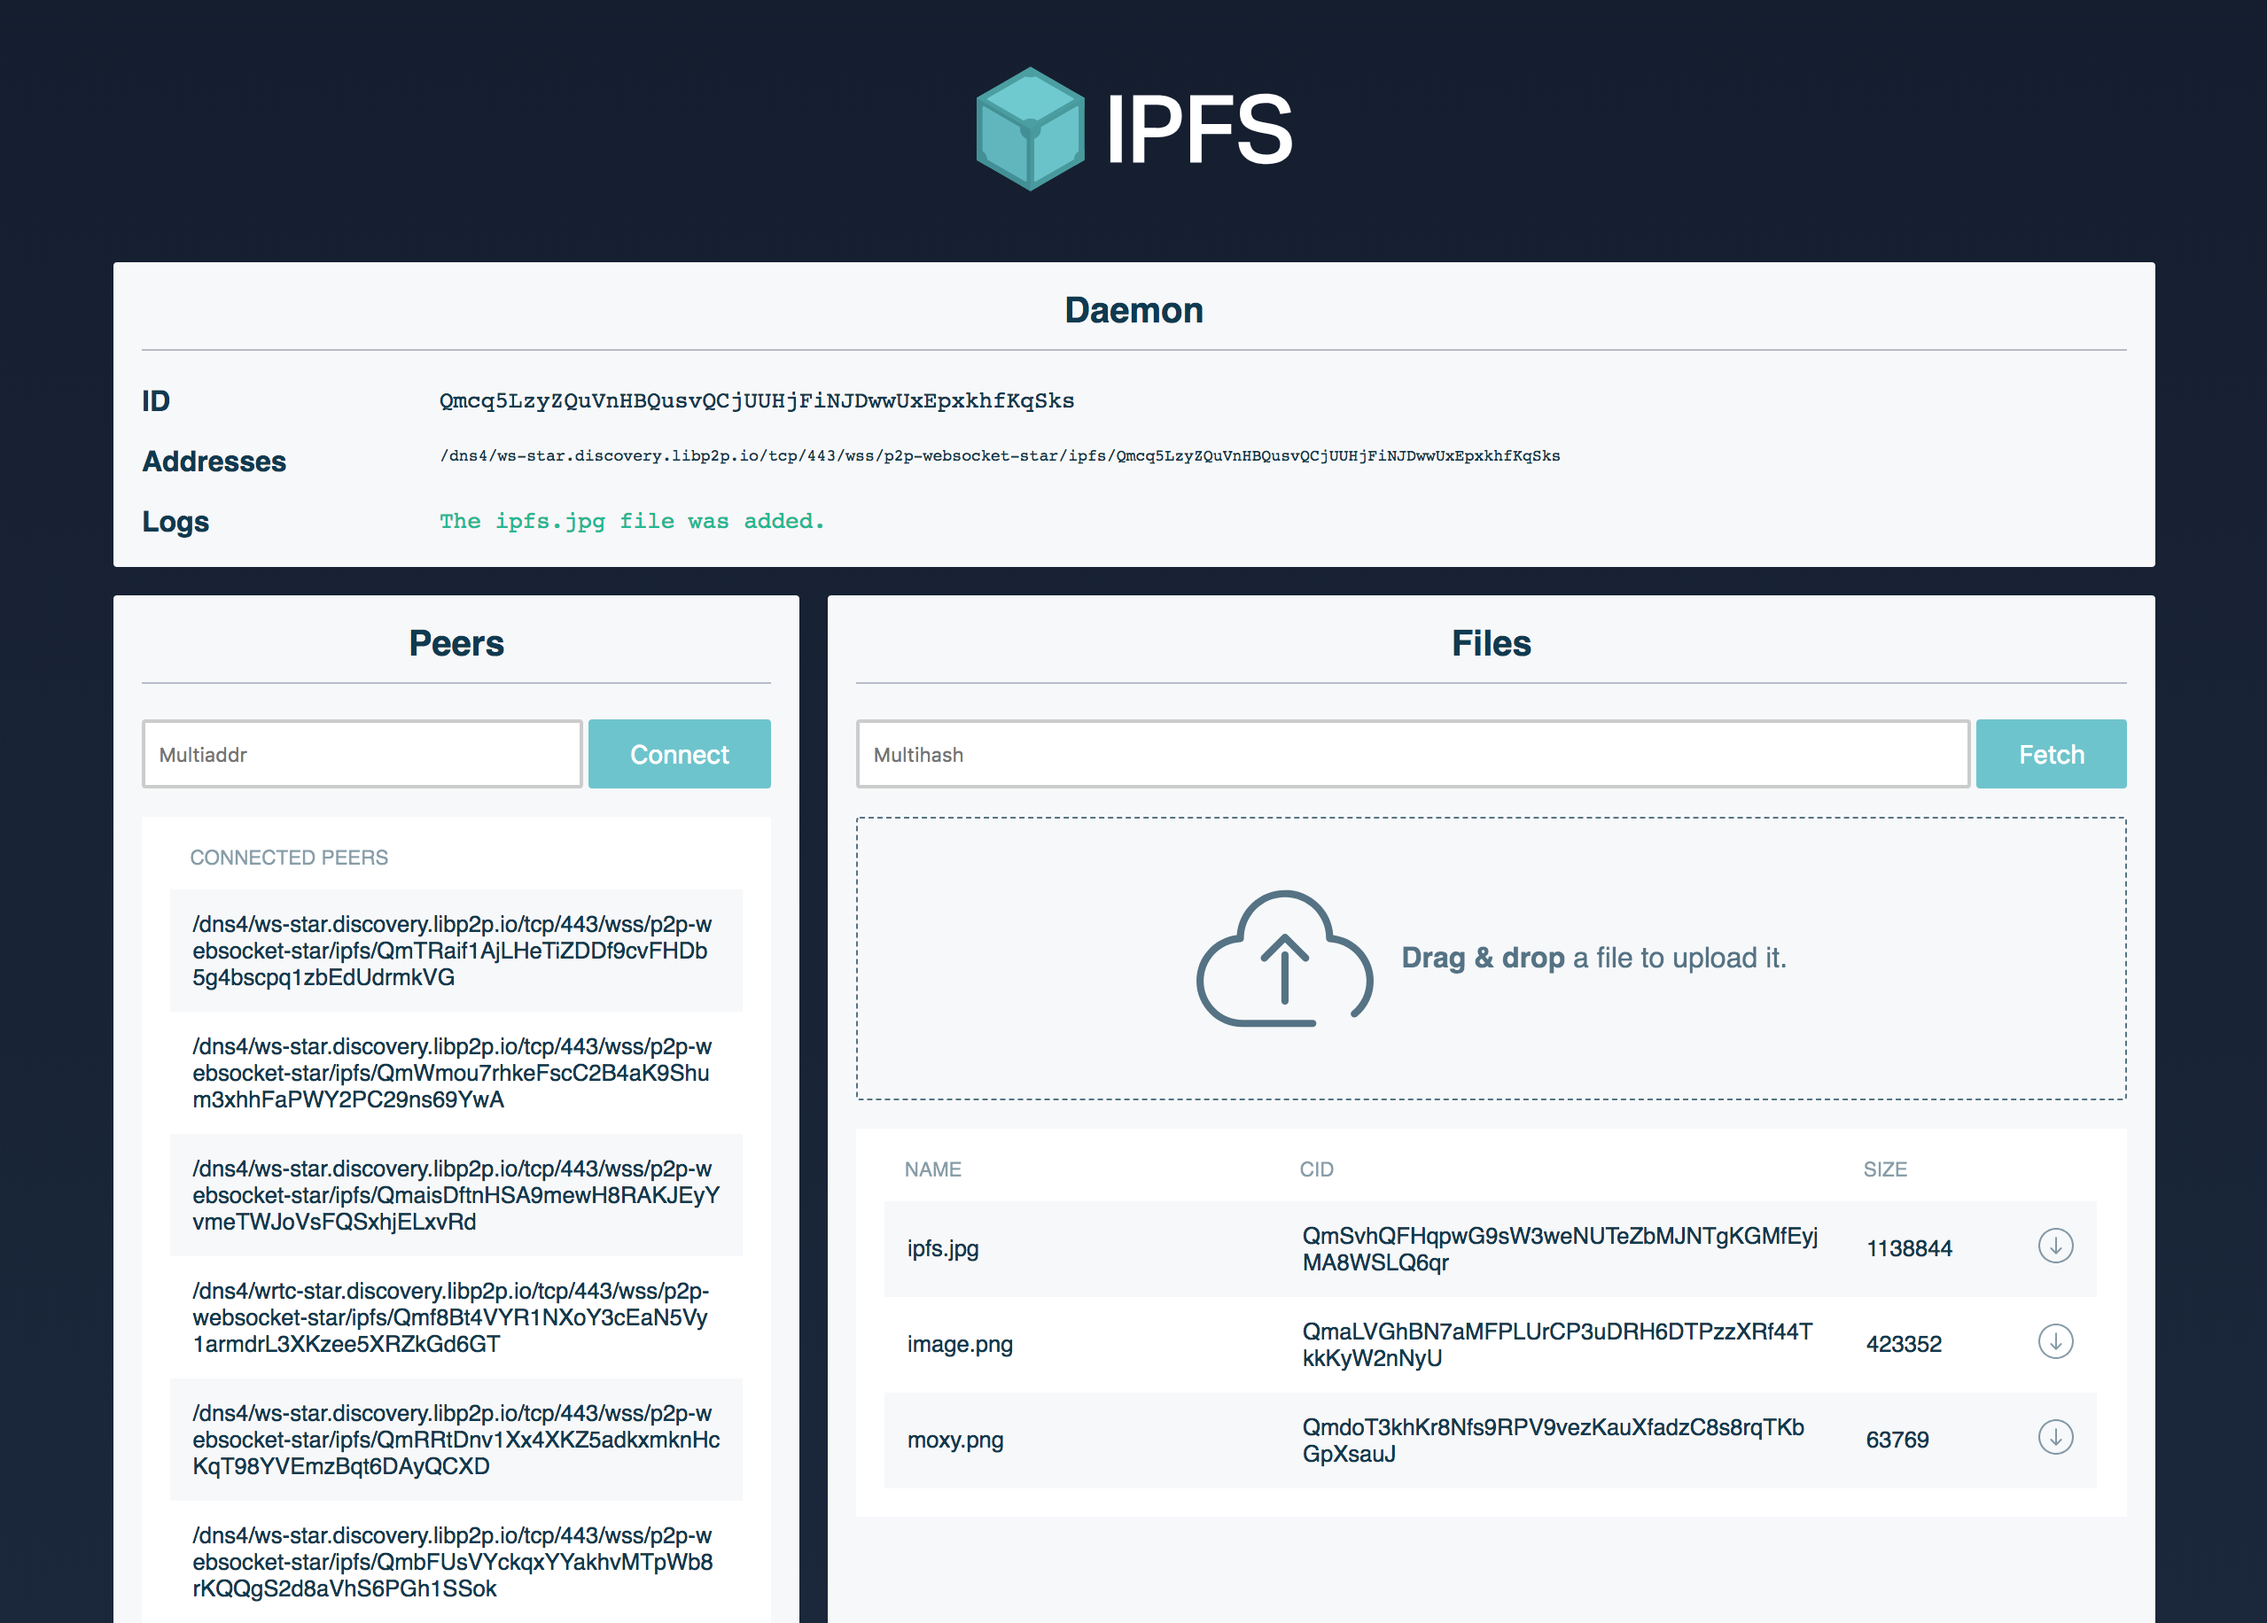
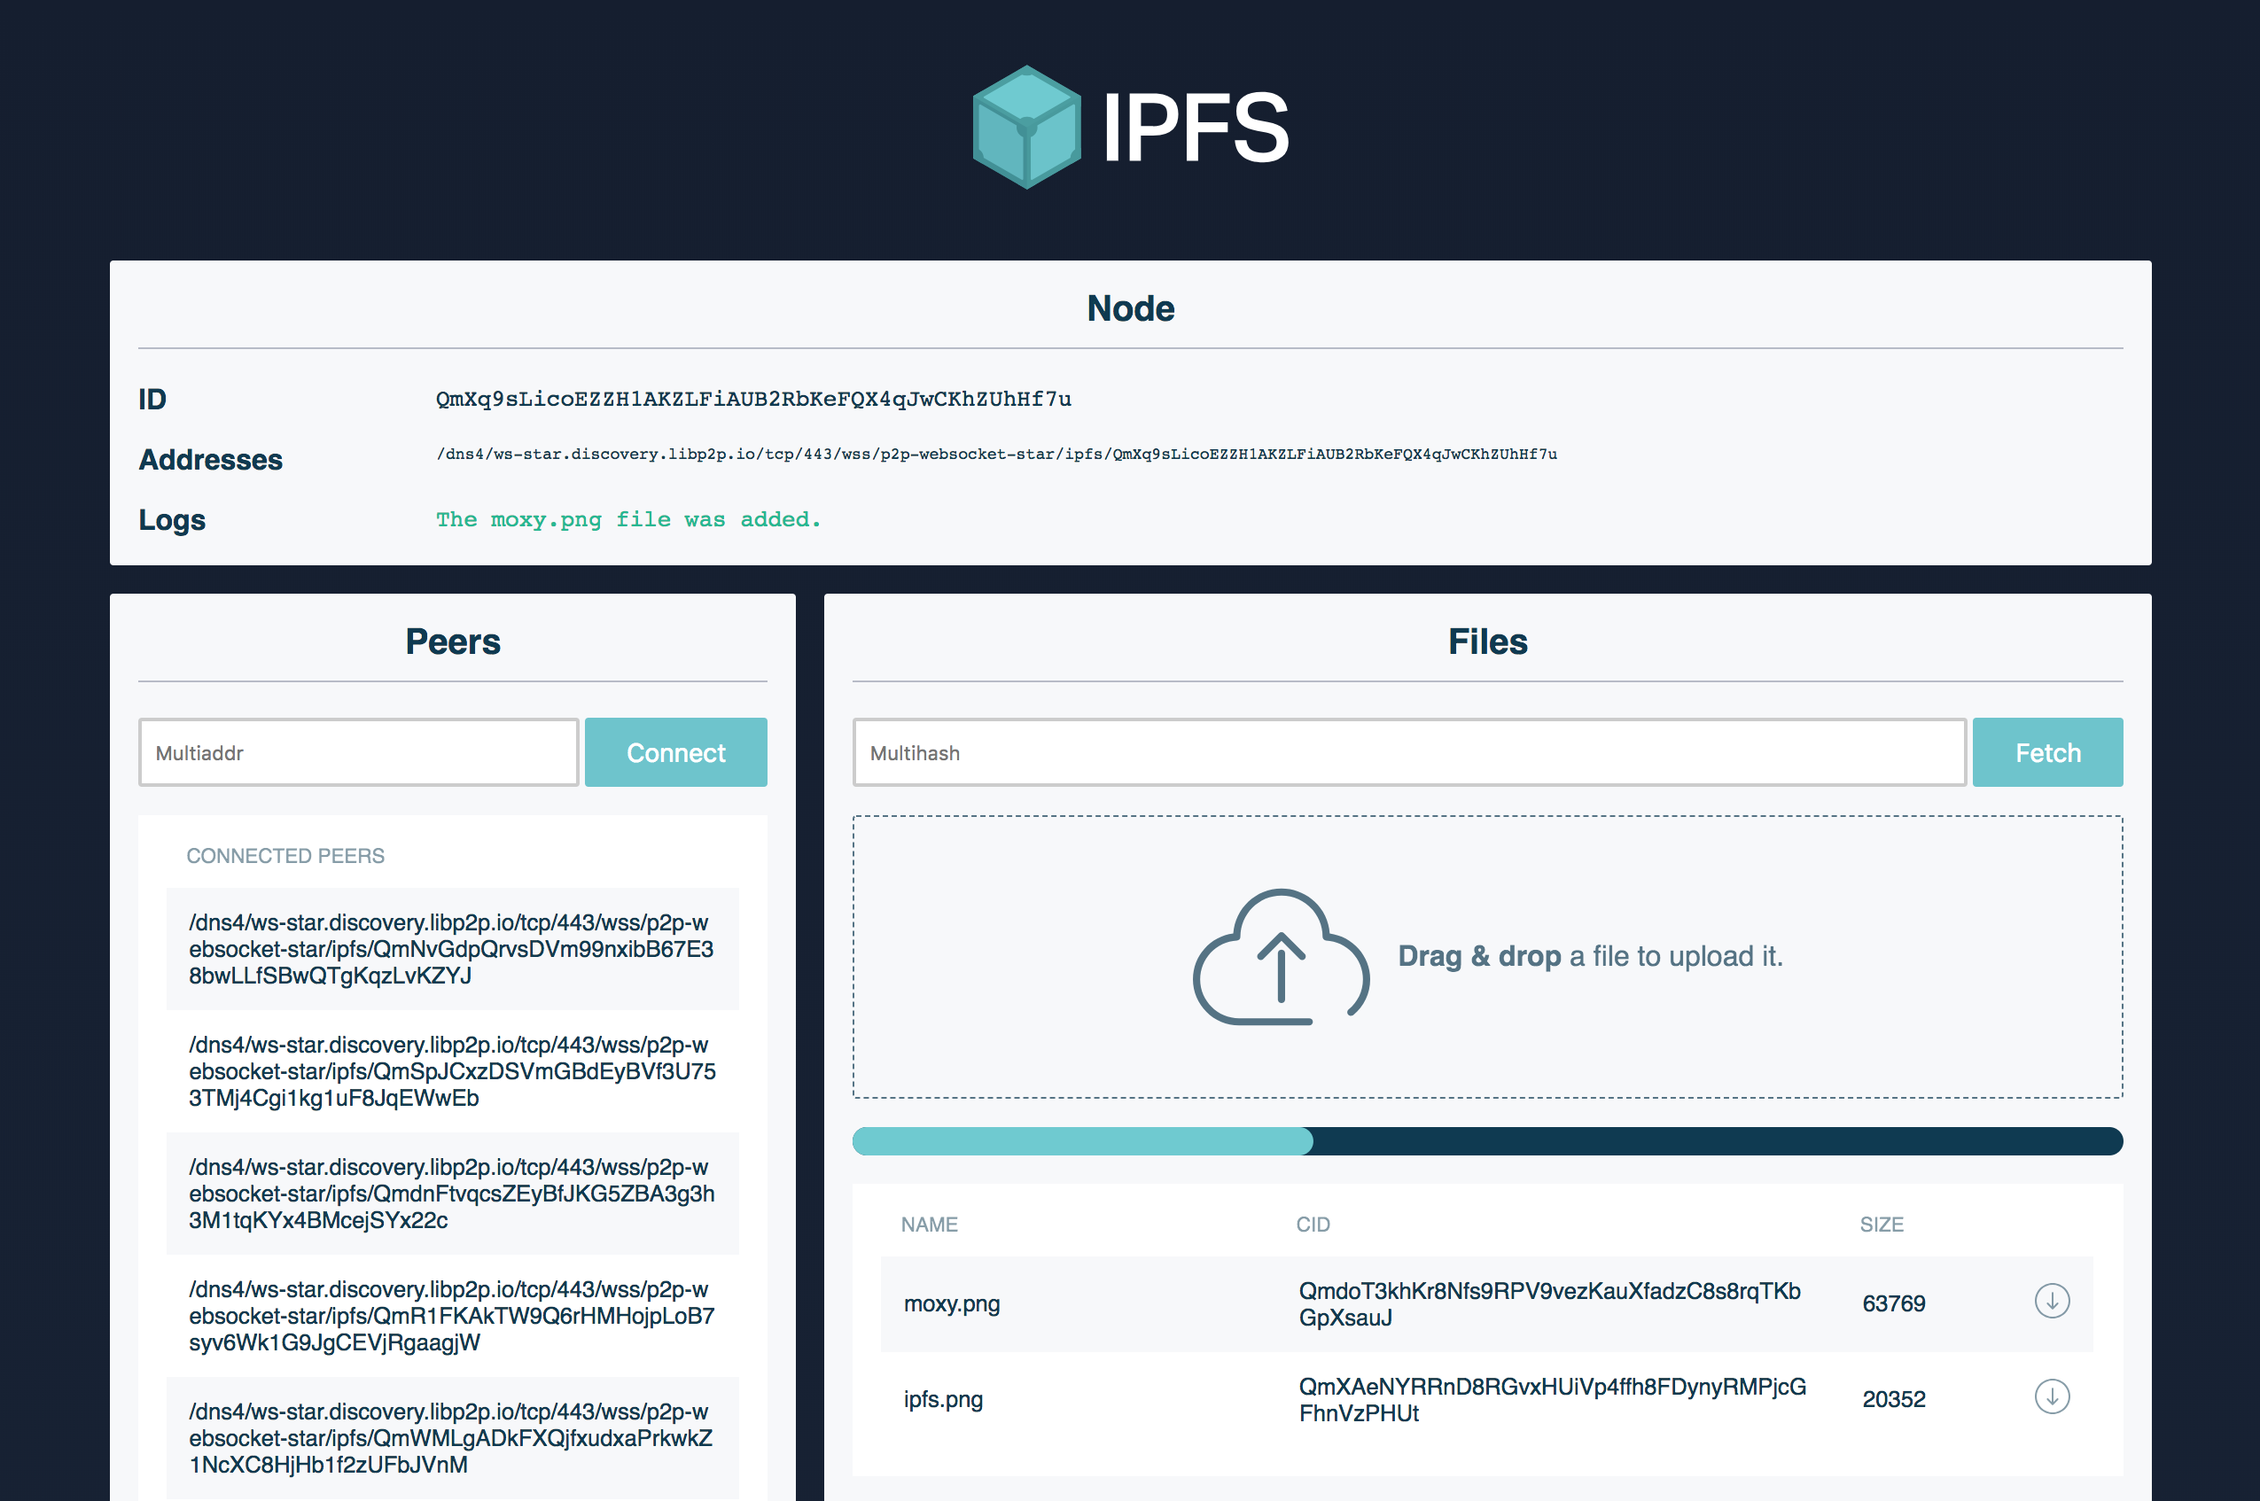
fix: update images and peers order

diff --git a/examples/exchange-files-in-browser/public/app.js b/examples/exchange-files-in-browser/public/app.js
@@ -245,7 +245,7 @@ function connectToPeer (event) {
 function refreshPeerList () {
   node.swarm.peers()
     .then((peers) => {
-      const peersAsHtml = peers
+      const peersAsHtml = peers.reverse()
         .map((peer) => {
           if (peer.addr) {
             const addr = peer.addr.toString()

diff --git a/examples/exchange-files-in-browser/README.md b/examples/exchange-files-in-browser/README.md
@@ -2,7 +2,7 @@
 
 This tutorial will help you exchange files between browser nodes and go-ipfs or js-ipfs nodes!
 
-**Note:** `js-ipfs` currently doesn't support DHT peer discovery, so the peer from which you are fetching data should be within the reach (local or in public IP) of the browser node.
+**Note:** As `js-ipfs@0.29.0` currently doesn't support DHT peer discovery, the peer from which you are fetching data should be within the reach (local or in public IP) of the browser node.
 
 That being said, we will explain how to circumvent these caveats and once they are fixed, we'll update the tutorial as well.
 
